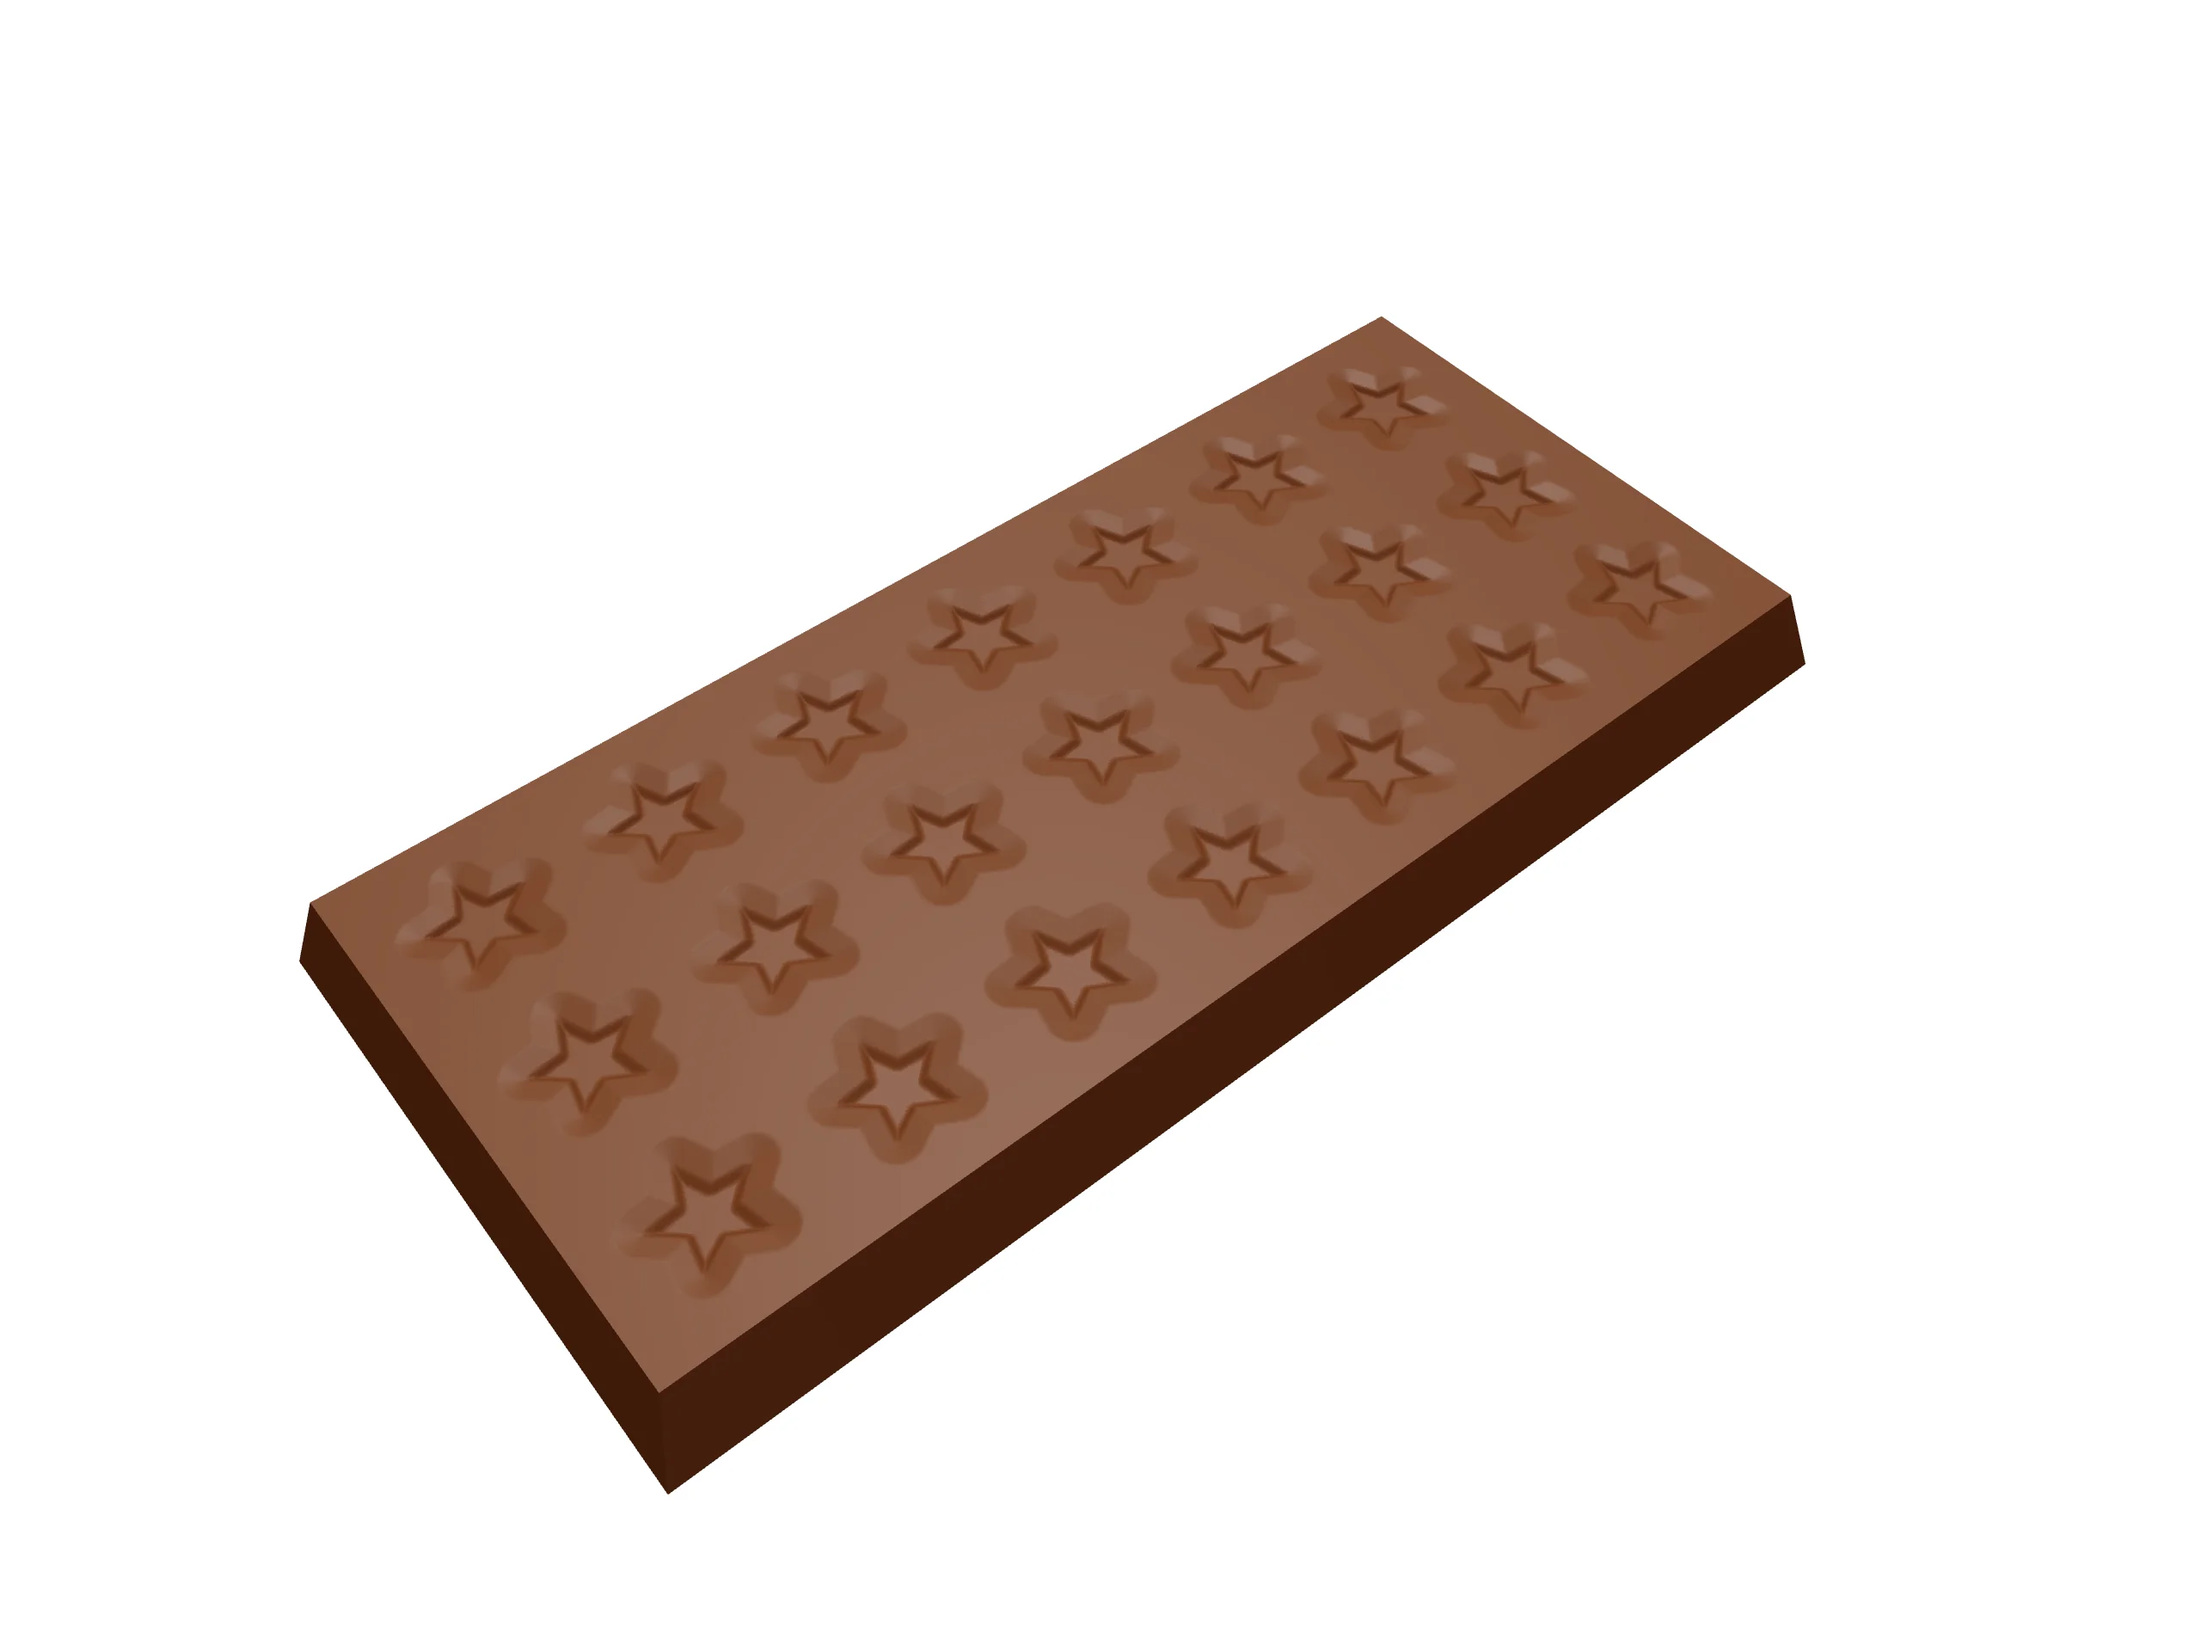
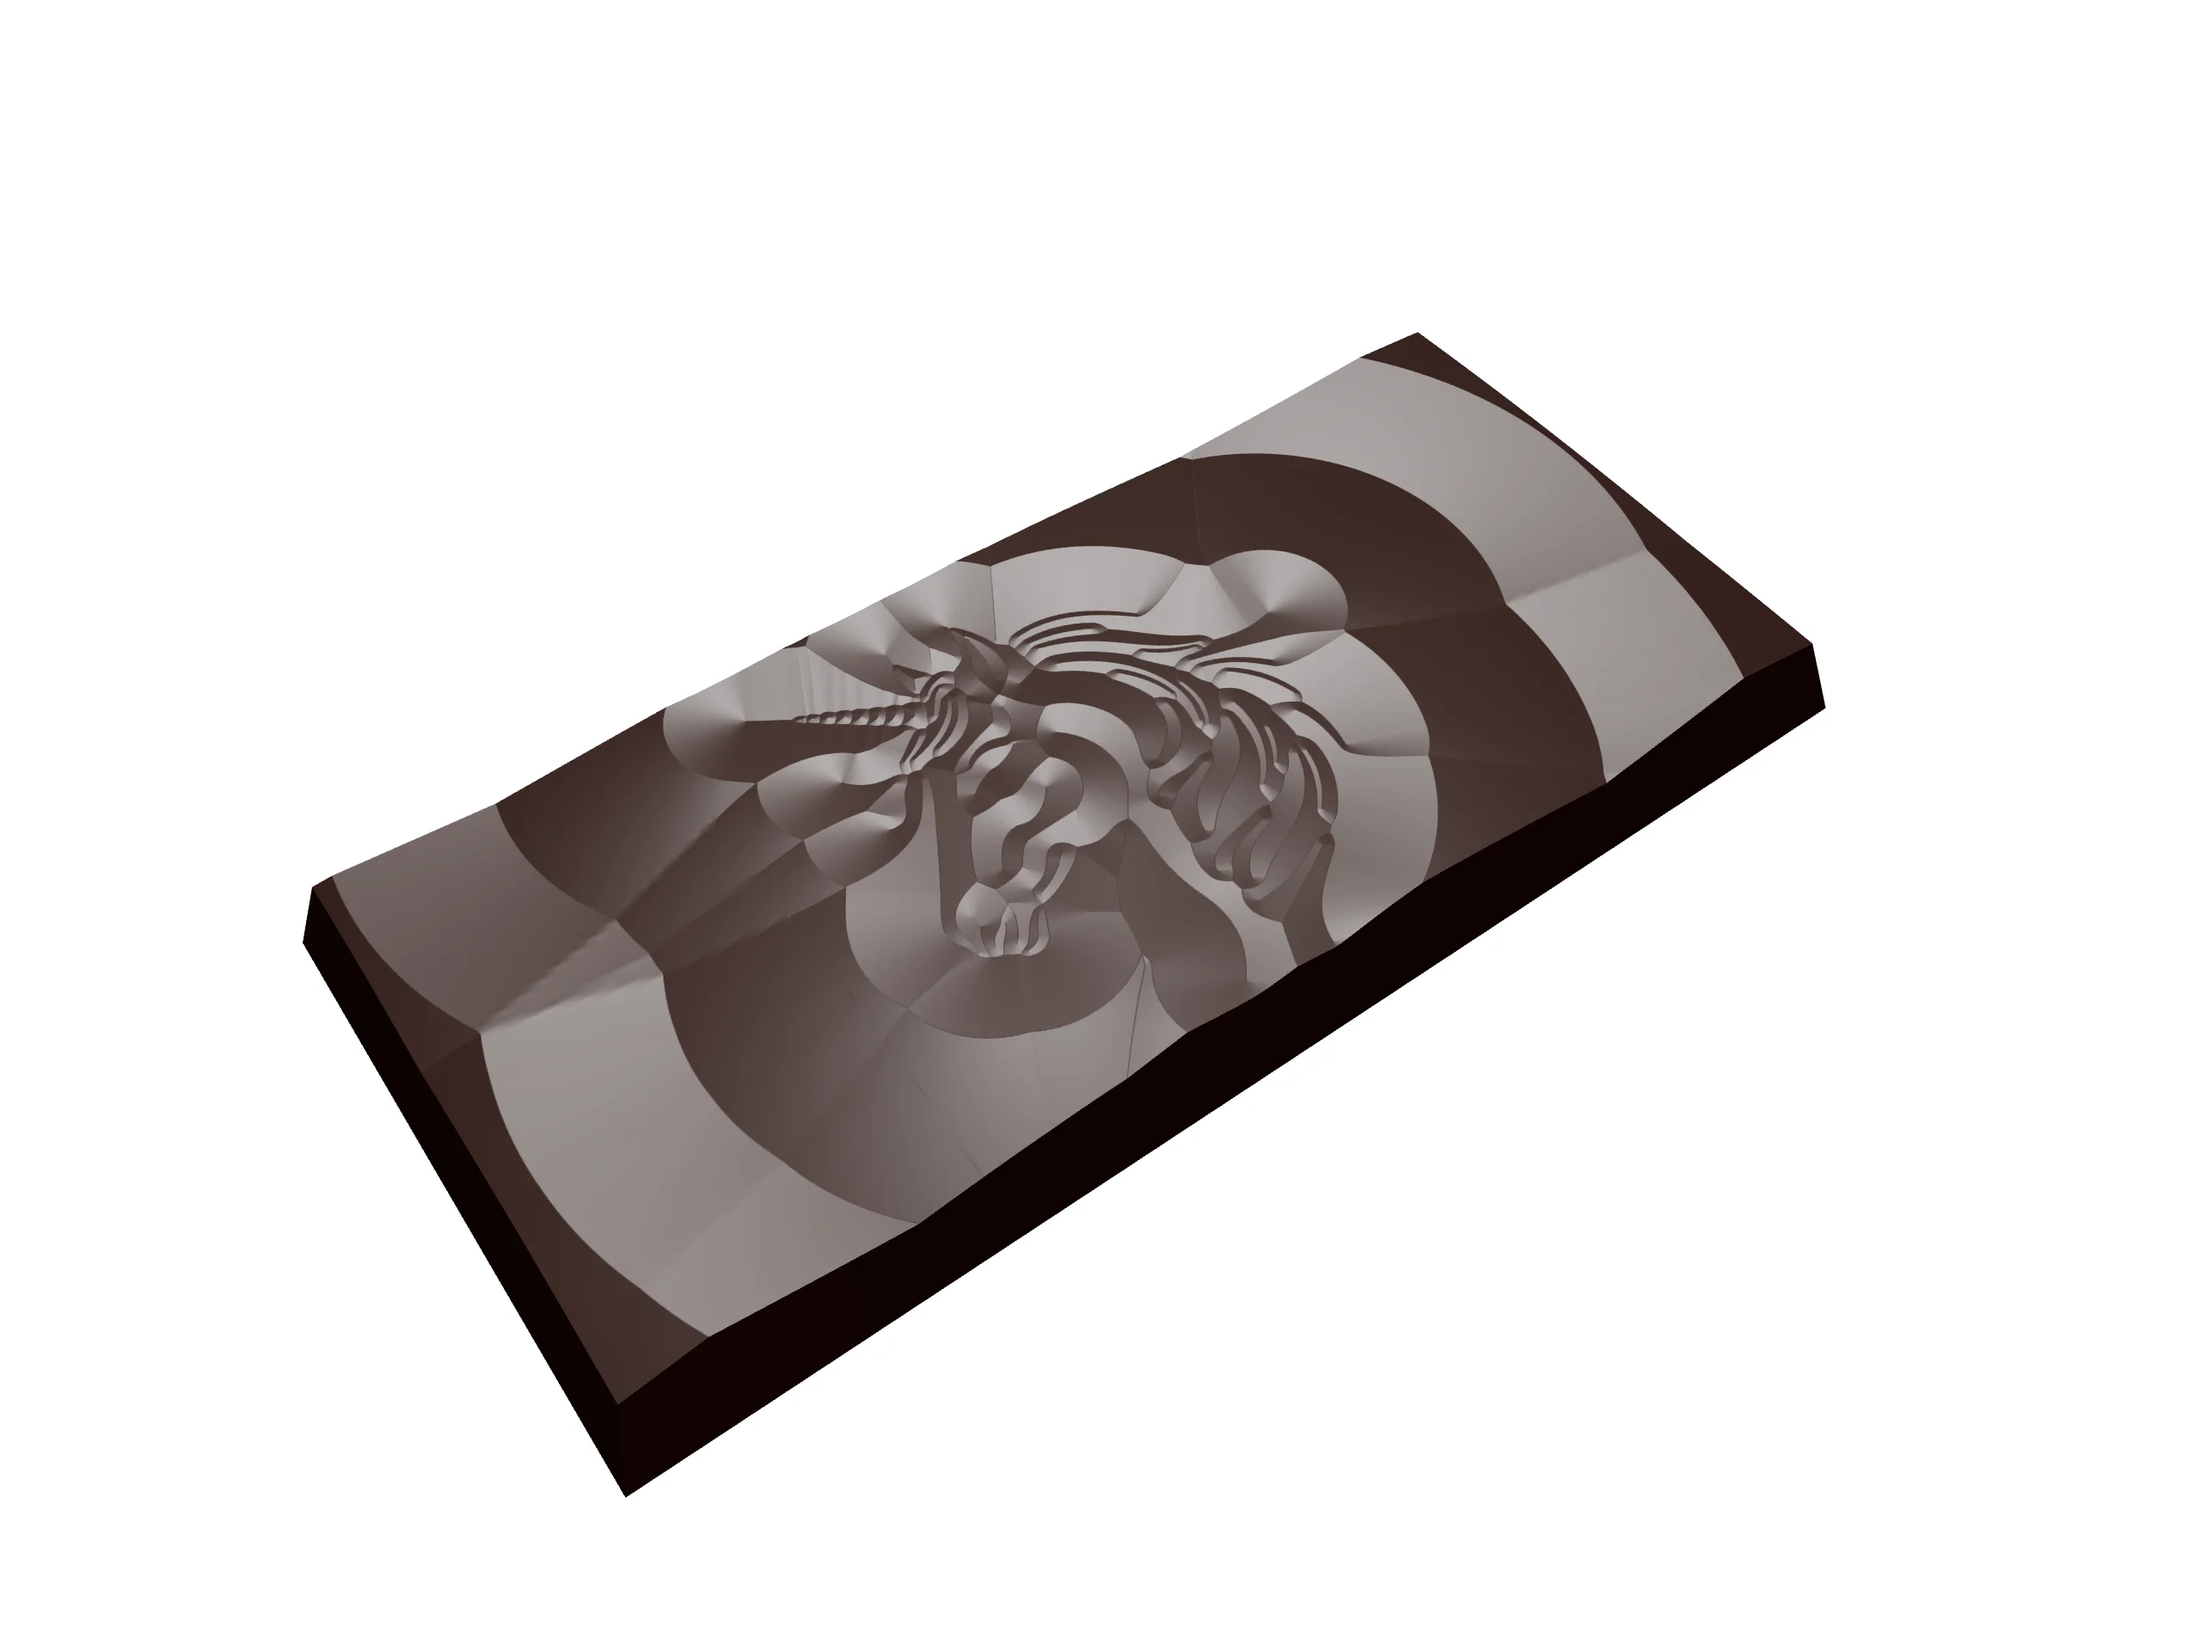
choci sur mesure: hero and deployment link from your bar

Changed region(s): [[0.125, 0.1875, 0.8438, 0.9062]]

diff --git a/src/data/projects/software/chociSurMesure.ts b/src/data/projects/software/chociSurMesure.ts
@@ -31,6 +31,10 @@ const id = '2026-09';
 const APP = 'https://jonasward.github.io/chocolade-chaud/';
 
 // the whole bar lives in ?s=, the camera and expert mode are not part of it
+// the bar of the title image, also what the deployment link opens
+const HERO_STATE =
+  'CzOBGVg-5B-ku5Xj24wUxOICcQE4gIygCX7JiYgUnjCU04hSCIrAV5COEAACqcQnQgAAynEKQQEUfhSCAiRAnE1O6AAE4gAAEiAFA';
+
 const STATE = {
   nameOnAGyroid:
     'CzOBhGU8jA2su5Xgu4FJxATiAnEBGUAK_ZMTEqcQpBAABAjgJ6YCTiFIIBQBDAGgAYQB1AGQUAOYAwgDcAOYAWgDmAMoA5ADSAMyG1gACcQE4gOEAHgDyBQCWA',
@@ -97,7 +101,7 @@ export const chociSurMesure: ProjectData = {
       links: [
         {
           type: ProjectContentType.ExternalLink,
-          href: APP,
+          href: `${APP}?s=${HERO_STATE}`,
           alternativeName: 'GitHub Pages Deployment'
         },
         {
